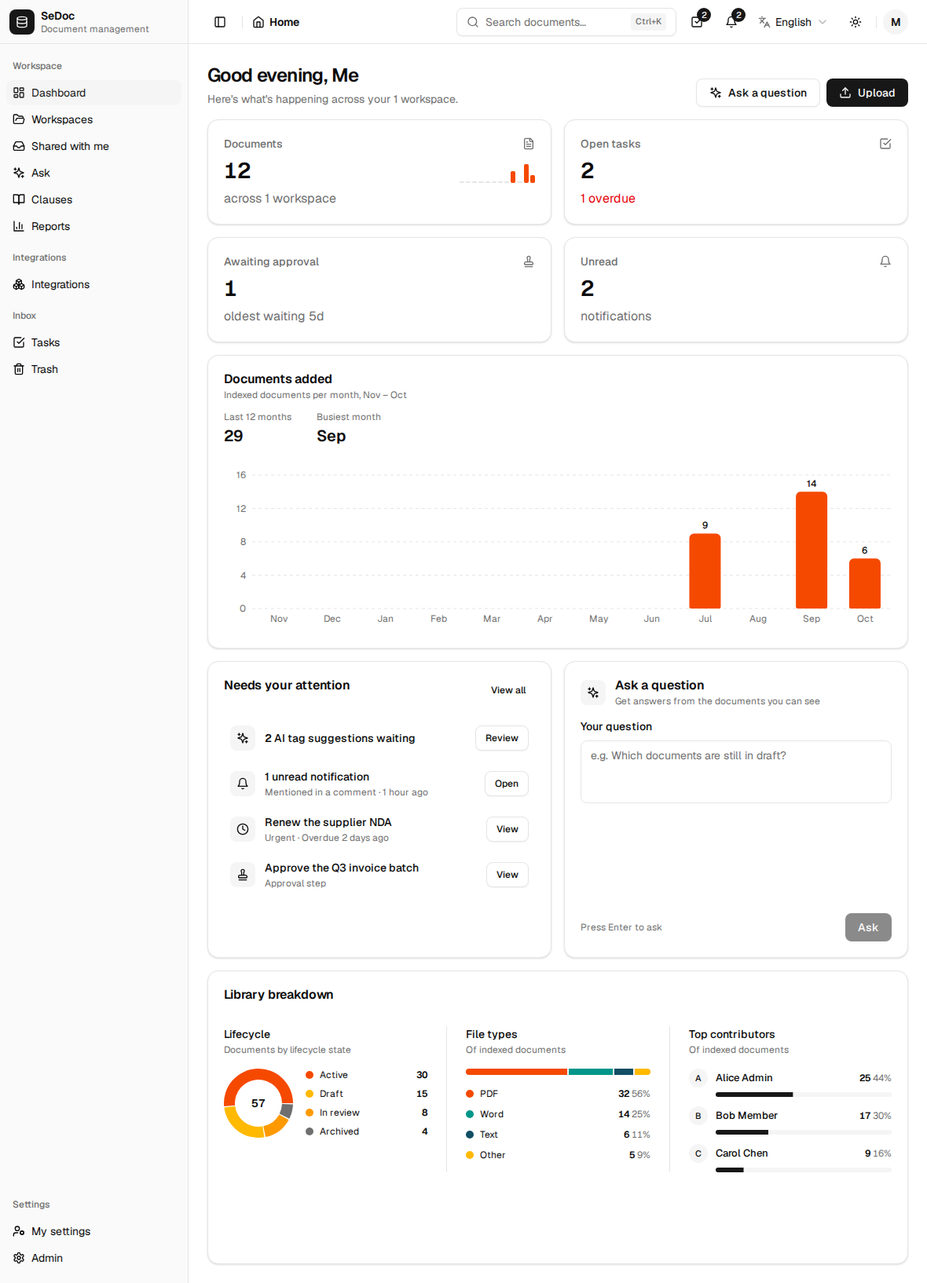
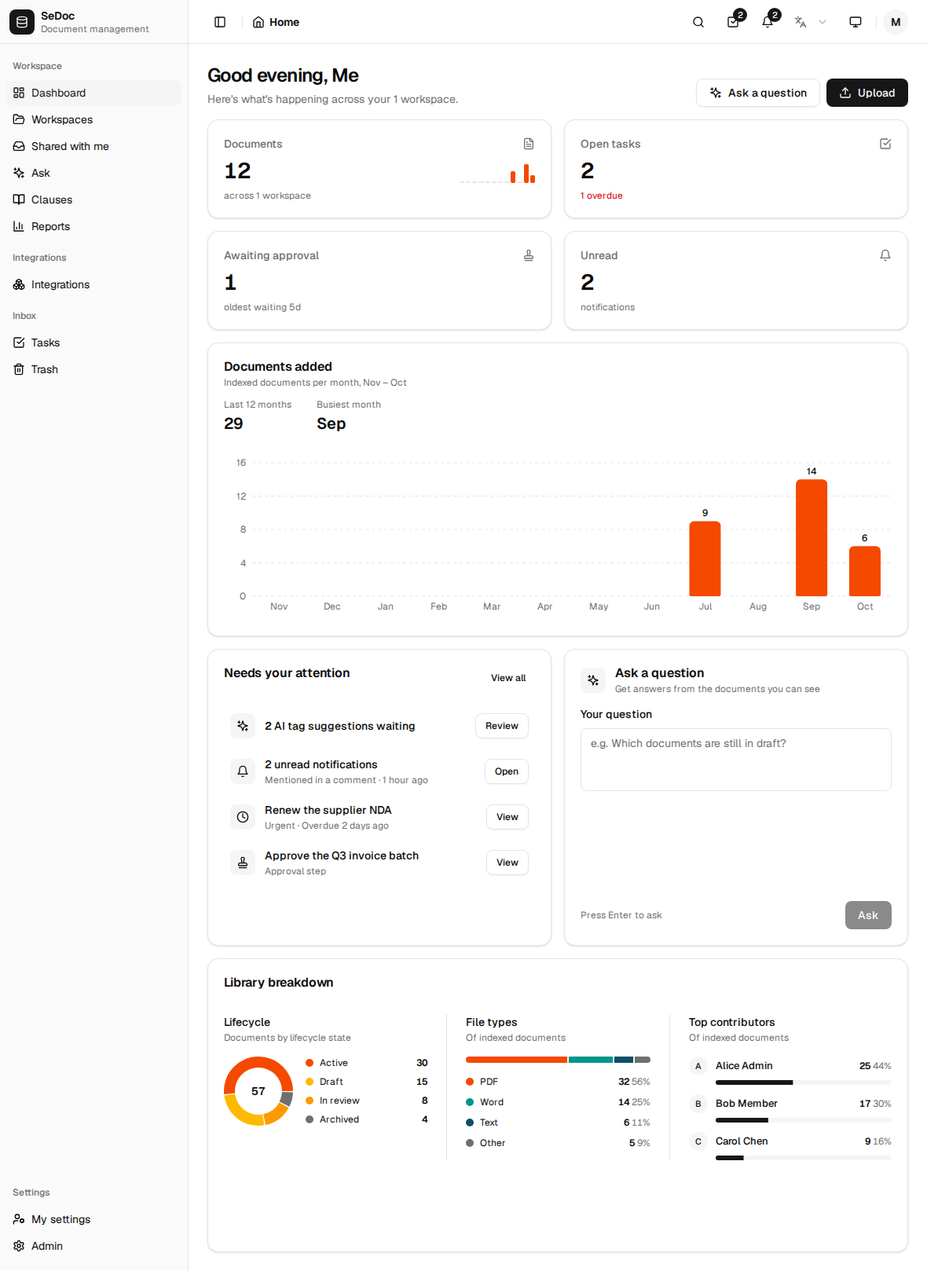
docs: hand-back and screenshots after the final fix wave
- M7: the hand-back states what the final fix wave did, item by item with
  commits (section 4), and the one open item (dark --destructive). It
  drops the hueSat() line, gives the .dark alias lines as 164-165, says
  the header overflowed (fixed by I1), corrects the Task 13 search
  premise (QuickActions had a Search card), marks the Task 11 ?q= ruling
  as superseded by C2, lists the six Final rulings, the deferred minors
  M1/M3/M4/M6 and the review's declined-to-judge list, and notes the
  browser floor and that the CSP still ships report-only.
- Screenshots re-captured at 1440, 1180 and 390 px (light, dark, RTL) on
  the fixed build, plus dashboard-820-light.png for the I1 band.

diff --git a/docs/superpowers/plans/2026-10-26-design-system-shell-dashboard-handback.md b/docs/superpowers/plans/2026-10-26-design-system-shell-dashboard-handback.md
@@ -2,7 +2,7 @@
 
 For the engineer doing redesign step 2 (the next screens). Spec: `docs/superpowers/specs/2026-10-25-design-system-shell-dashboard-design.md`. Plan: `docs/superpowers/plans/2026-10-26-design-system-shell-dashboard.md`. Branch `feat/ui-redesign-dashboard`, worktree `.worktrees/ui-redesign`. All paths below are under `web/` unless they start with `docs/`.
 
-**Not mergeable yet:** section 4 lists items that were decided in the final review wave but are not implemented at HEAD. Sections 1-3 describe only what is in the tree.
+**State:** the final whole-branch review (`.superpowers/sdd/2026-10-26-design-system-shell-dashboard/final-review.md`) found 2 Critical and 11 Important issues. The final fix wave implemented every ruling but one half of I3 (dark `--destructive`, which cannot meet the ruling and the existing AA pair at once). Section 4 lists each item with its commit and states that open item. Sections 1-3 describe what is in the tree.
 
 ## 1. What step 1 shipped, and where
 
@@ -17,7 +17,7 @@ For the engineer doing redesign step 2 (the next screens). Spec: `docs/superpowe
 
 **Sidebar and layout**: `src/components/layout/{app-layout,app-sidebar}.tsx` (rail at 801px and up, collapsible, Settings pinned at the bottom, smart folders inside the Workspace group), `src/store/uiStore.ts` (`notificationsOpen` / `openNotifications`, excluded from persistence).
 
-**Header**: `src/components/layout/{app-topbar,breadcrumbs,theme-toggle}.tsx`, `src/components/shared/LanguageSelector.tsx` (sidebar toggle button, 280x36 search trigger with `Kbd`, notifications bell, theme and language controls).
+**Header**: `src/components/layout/{app-topbar,breadcrumbs,theme-toggle}.tsx`, `src/components/shared/LanguageSelector.tsx` (sidebar toggle button, 280x36 search trigger with `Kbd` from 1181px and a search icon button below that, notifications bell, theme toggle showing the current mode, language control with its label from 1181px). The mobile navigation sheet carries the language control in a footer row.
 
 **Dashboard** (`src/routes/_authenticated/index.tsx` composes it): `src/components/dashboard/`
 - `DashboardHead.tsx`, `greet.ts`: greeting, workspace count, Upload button (also the drop target for files, opening `DashboardUploadDialog`).
@@ -25,9 +25,10 @@ For the engineer doing redesign step 2 (the next screens). Spec: `docs/superpowe
 - `DocumentsAddedChart.tsx`: 12-month bar chart.
 - `AttentionList.tsx`: "Needs your attention" (pending AI tag suggestions, unread notifications, top 3 open tasks; owns `taskRank`, `taskDetail`, `RANK_ICON`, `OPEN_STATUSES`).
 - `LibraryBreakdown.tsx`, `LifecycleDonut.tsx` (now only `LifecycleRing`), `BreakdownBars.tsx`, `chartTheme.ts`, `ChartDataTable.tsx`: lifecycle ring, file-type stacked bar, top contributors.
-- `AskCard.tsx`, `src/lib/askLimits.ts`: ask box that hands off to `/ask?q=`.
+- `AskCard.tsx`, `src/lib/askLimits.ts`: ask box that hands the question to `/ask` in router history state (`askQuestion`), never in the URL.
 - `WidgetCard.tsx` (the card frame all widgets share), `metrics.ts`, `useDashboardMetrics.ts`.
-- Related routes: `src/routes/_authenticated/ask.tsx` (reads `?q=`, submits once), `src/routes/_authenticated/tasks.tsx` (`validateSearch` for `?tab=my|created|approvals`).
+- Related routes: `src/routes/_authenticated/ask.tsx` (asks a history-state handoff once, then clears it; `?q=` only prefills the composer), `src/routes/_authenticated/tasks.tsx` (`validateSearch` for `?tab=my|created|approvals`).
+- `src/components/ai/AnswerMarkdown.tsx` (shared by Ask, doc Q&A and the chat panel) renders Markdown images as alt text plus a plain link, never an `<img>`.
 
 **Touched for the new tokens only**: `src/components/layout/{auth-shell,AuthHero,CursorGrid}.tsx`, `src/components/folders/BrowserTiles.tsx`, `src/routes/_authenticated/reports.tsx` (`hsl(var(--card))` became `var(--card)`).
 
@@ -47,18 +48,19 @@ For the engineer doing redesign step 2 (the next screens). Spec: `docs/superpowe
 |---|---|
 | `npx tsc --noEmit` | clean |
 | `npm run lint` (eslint plus the rtl, utf8, tenant scripts) | exit 0; the warnings that remain are on files this step did not touch |
-| `npx vitest run` | 133 files, 1146 tests, all pass. Before Task 14: 135 files, 1177 tests. The 31 tests removed belong to deleted components: PendingSuggestionsCard 4, `ui/crextio` 4, `widgets.test.tsx` 23. Coverage of surviving code in `widgets.test.tsx` (offline first mount, locale grouping, facets unavailable, reserved height) was retargeted to `LibraryBreakdown` and `AttentionList`, not dropped |
+| `npx vitest run` | After the final fix wave: 134 files, 1205 tests (1204 pass, 1 `it.fails` recording the open dark-destructive contrast gap). At Task 14: 133 files, 1146 tests. Before Task 14: 135 files, 1177 tests. The 31 tests removed in Task 14 belong to deleted components: PendingSuggestionsCard 4, `ui/crextio` 4, `widgets.test.tsx` 23. Coverage of surviving code in `widgets.test.tsx` (offline first mount, locale grouping, facets unavailable, reserved height) was retargeted to `LibraryBreakdown` and `AttentionList`, not dropped |
 | `npm run build` | passes |
-| Playwright on the built preview (run at Task 13) | 116 passed, 14 pre-existing skips, 0 failed. Not re-run after Task 14: no spec under `e2e/` imports or names any deleted component |
-| Dashboard axe (WCAG 2.1 AA) | 0 violations in light, dark and RTL at 1440, 1180 and 390 px |
+| Playwright on the built preview (re-run after the final fix wave) | 116 passed, 14 pre-existing skips, 0 failed |
+| Dashboard axe (WCAG 2.1 AA) | 0 violations in light, dark and RTL at 1440, 1180 and 390 px, and light at 820 px (final fix wave) |
 | `grep -rn "shadow-neu\|dash-rise\|nm-" src \| wc -l` | 207 lines. 204 are `shadow-neu*` aliases on other routes and components; 3 are negative assertions in tests (`not.toHaveClass('dash-rise')`, `not.toContain('--nm-dist')`, `not.toMatch(/--nm-/)`) |
 
-Screenshots, `docs/superpowers/plans/assets/2026-10-26-dashboard/`:
+Screenshots, `docs/superpowers/plans/assets/2026-10-26-dashboard/` (re-captured after the final fix wave):
 
 | | Light | Dark | RTL (Arabic) |
 |---|---|---|---|
 | 1440 px | [dashboard-1440-light.png](assets/2026-10-26-dashboard/dashboard-1440-light.png) | [dashboard-1440-dark.png](assets/2026-10-26-dashboard/dashboard-1440-dark.png) | [dashboard-1440-rtl.png](assets/2026-10-26-dashboard/dashboard-1440-rtl.png) |
 | 1180 px | [dashboard-1180-light.png](assets/2026-10-26-dashboard/dashboard-1180-light.png) | [dashboard-1180-dark.png](assets/2026-10-26-dashboard/dashboard-1180-dark.png) | [dashboard-1180-rtl.png](assets/2026-10-26-dashboard/dashboard-1180-rtl.png) |
+| 820 px (rail expanded; the I1 band) | [dashboard-820-light.png](assets/2026-10-26-dashboard/dashboard-820-light.png) | | |
 | 390 px | [dashboard-390-light.png](assets/2026-10-26-dashboard/dashboard-390-light.png) | [dashboard-390-dark.png](assets/2026-10-26-dashboard/dashboard-390-dark.png) | [dashboard-390-rtl.png](assets/2026-10-26-dashboard/dashboard-390-rtl.png) |
 
 **Running Playwright locally** (Linux, no root, no passwordless sudo):
@@ -69,7 +71,7 @@ Screenshots, `docs/superpowers/plans/assets/2026-10-26-dashboard/`:
 
 ## 3. Decisions that deviate from the spec or plan
 
-From the ledger (`.superpowers/sdd/2026-10-26-design-system-shell-dashboard/progress.md`), every `Ruling:` line. The pre-flight scan found no contradictions between tasks (its `Ruling:` line says "none needed"). The ledger has 52 lines containing `Ruling`: that pre-flight line plus 51 decisions. The 51 appear below as 48 bullets; three bullets merge two ledger lines each (Task 1 muted-foreground, Task 3 focus halo, Task 11 Enter rule). Task 13's two rulings are decided but not implemented; they are listed here for completeness and detailed in section 4.
+From the ledger (`.superpowers/sdd/2026-10-26-design-system-shell-dashboard/progress.md`), every `Ruling:` line. The pre-flight scan found no contradictions between tasks (its `Ruling:` line says "none needed"). The ledger has 52 lines containing `Ruling`: that pre-flight line plus 51 decisions. The 51 appear below as 48 bullets; three bullets merge two ledger lines each (Task 1 muted-foreground, Task 3 focus halo, Task 11 Enter rule). The final review added six `Final: Ruling` lines (58 in all), listed at the end of this section. Task 13's two rulings were implemented in the final fix wave (section 4).
 
 **Tokens (Task 1)**
 - Colour utilities use the `color-mix(... <alpha-value> ...)` wrapper instead of a bare `var(--x)`. A bare `var()` drops every `/NN` opacity modifier (about 600 uses in 159 files). Same colour at full opacity; one line in `token()` to change.
@@ -127,7 +129,7 @@ From the ledger (`.superpowers/sdd/2026-10-26-design-system-shell-dashboard/prog
 - Arabic count nouns use pluralised keys, and the Arabic comma comes from the catalogue, in both the stacked list and the contributors rows.
 
 **Ask card (Task 11)**
-- `/ask` auto-submits once per mount (a `useRef` guard) and then clears `?q=` with a replace navigation, so reload and Back never re-ask.
+- `/ask` auto-submits once per mount (a `useRef` guard) and then clears `?q=` with a replace navigation, so reload and Back never re-ask. **Superseded** by the final review's C2 ruling (below): a URL never asks anything.
 - Enter submits only when `!shiftKey && !isComposing && keyCode !== 229` (Arabic and CJK IMEs commit with Enter; the `keyCode` clause amends the first version of the rule).
 - `WidgetCard` gains an optional `icon` start slot in the header, rendered only when supplied.
 - A visible label `dashboard.ask.label` ("Your question") sits above the textarea; spec section 5 lists a label and the plan supplied no copy.
@@ -138,12 +140,21 @@ From the ledger (`.superpowers/sdd/2026-10-26-design-system-shell-dashboard/prog
 - `grid-flow-dense` is kept: at 801-1180px the spec pairs attention and ask in one row with the library full width. Cost: at mid widths the Ask card is visually before the Library card but after it in tab order.
 - Drop-to-upload regressed when the QuickActions Upload card was removed (it was the only `onDrop` target). The head's Upload button is now the drop target (dragover highlight; drop opens `DashboardUploadDialog` with `initialFiles`).
 
-**Verification task (Task 13): decided, NOT implemented at HEAD (details in section 4)**
-- `LanguageSelector` is to appear inside the mobile sidebar sheet (800px and below) because the spec hides it in the header at that width and the sheet would otherwise leave phones with no language switch.
-- Attention row titles are to wrap (`line-clamp-2`) instead of truncating on one line.
+**Verification task (Task 13): implemented in the final fix wave (section 4)**
+- `LanguageSelector` appears inside the mobile sidebar sheet (800px and below) because the spec hides it in the header at that width and the sheet would otherwise leave phones with no language switch.
+- Attention row titles wrap (`line-clamp-2`) instead of truncating on one line.
+- The same ruling said "Search on phones is not a regression (header search was already hidden under 640px on main)". That premise was wrong: below 640px the dashboard's QuickActions had a **Search** card (`dashboard.qa.search_label`), and 641-800px had the header search. The final review's C1 ruling corrects it.
 
 **Task 14**
 - The commit trailer stays "Claude Opus 5.5" on all subagent commits (the session's standing instruction); earlier commits are not amended.
+
+**Final review (fix wave)**
+- C1: a header search icon button opens `/search` wherever the search input is hidden (QuickActions had the only phone Search entry).
+- C2: questions auto-submit only from in-app navigation state, never from the URL; `?q=` only prefills; `AnswerMarkdown` renders model-output images as non-fetching links. This deviates from spec section 5 item 6 ("submits it on mount" from `?q=`): security outranks it.
+- I1: the search input and the language label show only from 1181px (an icon button below). Cost: a smaller search affordance at 801-1180px.
+- I3: light `--ring` #737373 and `--destructive` adjusted for AA; spec section 3 amended. The dark half is open (section 4).
+- I4: the theme toggle shows Monitor in system mode and states the mode in its name.
+- I2, I5-I11 and the minors M2, M7, M8, M9 as listed in `final-fix-brief.md`; M1, M3, M4, M6 stay deferred to step 2 (section 5.8); the review's declined-to-judge items stay out of scope (section 5.9).
 
 Choices made by the Task 14 implementer (not ledger rulings):
 - The `shadow-neu*` / `shadow-float*` aliases stay in `tailwind.config.js`: 211 uses in 82 non-test files remain (section 5.1).
@@ -152,22 +163,34 @@ Choices made by the Task 14 implementer (not ledger rulings):
 - `LifecycleDonut.tsx` keeps its file name though it now exports only `LifecycleRing`, to avoid churn in `LibraryBreakdown` and its tests.
 - `trendSummary` in `metrics.ts` has no production caller any more; it is left in place with its tests.
 
-## 4. Pending before merge (final fix wave)
+## 4. Done in the final fix wave
 
-Decided in review, not implemented at HEAD. Each line says what the tree does now.
+Every item the final review raised, with the commit that closed it. Base `bd19f2b4`.
 
-**Decided in the ledger (Task 13 rulings and must-fix)**
-- Phones have no language switch: `LanguageSelector` is hidden below 801px by `hidden shell:block` (`src/components/layout/app-topbar.tsx:86-88`) and is not in `MobileSidebar` (`src/components/layout/app-sidebar.tsx:317-331`). Decision: render it in the mobile sheet (a footer row). Header search is not affected (already hidden under 640px on main).
-- Attention row titles are cut off: the title span is `block truncate` (`src/components/dashboard/AttentionList.tsx:77`), so "2 AI tag suggestions waiting" shows as "2 AI tag suggestions waiti..." at 1440px. Decision: `line-clamp-2`.
-- The file-type "Other" row takes a palette colour when the facet has fewer than five types: `colorAt` in `src/components/dashboard/BreakdownBars.tsx:76` colours any index below `series.length` from the palette, and the "Other" row can sit at such an index. Decision: it always gets `OTHER_SEGMENT_COLOR`.
+**Critical**
+- C1, phones had no route to document search: a 36px ghost search icon button (`wide:hidden`, named "Search documents…") opens `/search`. `fb7627e0`.
+- C2, `/ask?q=` asked a crafted link's question with one click, and an answer could leak through a Markdown image: the Ask card hands over in router history state (`askQuestion`, typed by augmenting `@tanstack/history`'s `HistoryState`); `/ask` asks it once per handoff (keyed on the history entry, so a second in-app ask while mounted is honoured, and one arriving mid-stream waits) and replaces the entry with the state cleared; `?q=` only prefills the composer and is dropped from the URL; `AnswerMarkdown` renders images as alt text plus a nofollow link, never an `<img>`. `fbdb3e16`.
 
-**Found in review**
-- The suggestions row's Review link lands on the Catalog tab: `<Link to="/admin/tagging">` at `src/components/dashboard/AttentionList.tsx:214` carries no search; the page defaults to `catalog` (`src/routes/_authenticated/admin/tagging.tsx:17`) and accepts `tab: 'review'` (`:41-42`). Needs `search={{ tab: 'review' }}`.
-- The unread row can disagree with the bell badge: the row counts `unread = notes.filter(n => !n.read)` (`AttentionList.tsx:131`) over the first page of `getNotifications()` with no params (`:105`), while the bell badge and the Unread KPI card use `getUnreadCount()` (`src/components/layout/app-topbar.tsx:334-336`, `src/components/dashboard/KpiStrip.tsx:29`). The two disagree whenever unread notifications fall outside that first page.
-- `activity_aria` has one form per language (`public/locales/en/common.json:151`, `public/locales/ar/common.json:159`): English reads "1 documents added" for a total of 1, and the Arabic `مستندًا` after the number is grammatical only for 11-99. It needs plural forms (six in `ar`, per the Task 7 ruling).
-- `FACETS_UNAVAILABLE_LABEL` is an English literal, `'Too many documents to chart'` (`src/components/dashboard/metrics.ts:64`), shown under Arabic. It needs a catalogue key in both languages.
+**Important**
+- I1, the header overflowed at 801-930px: the 280px search box is `hidden wide:flex` and the language label `hidden wide:inline`. At 820px the right cluster is 285px wide and the header no longer overflows. `fb7627e0`.
+- I2, `cn()` dropped `text-caption`: `lib/cn.ts` registers `text-caption`/`text-metric` (font size) and `shadow-focus-halo*` (shadow) with `extendTailwindMerge`. KPI hints render at 12/16. `8d8803a0`.
+- I3, contrast: light `--ring` #737373 (4.7:1 on white); light `--destructive` #d6000a (4.5:1 on its own 10% tint, 5.4:1 on white). New pairs in `theme-contrast.test.ts`; spec section 3 amended. `e4db35d0`. **Open:** dark `--destructive` is unchanged (#e7000b, 3.8:1 on the dark card). No value can give error text 4.5:1 on the dark card while white `--destructive-foreground` keeps 4.5:1 on it, so the ruling's dark half needs a decision: a dark `--destructive-foreground`, or a separate text token. The gap is recorded as an `it.fails` test. `KpiCard`'s `dark:text-foreground` workaround stays until then.
+- I4, the theme toggle: Sun, Moon, and Monitor for system; name and tooltip "Theme: {mode}" from one key (`theme.toggle_with_mode`). `cf7d9849`.
+- I5, phones had no language switch: `LanguageSelector` in a footer row of the mobile sheet. `fb7627e0`.
+- I6, attention titles truncated: `line-clamp-2`. `155c8451`.
+- I7, the Review link landed on the Catalog tab: `search={{ tab: 'review' }}`. `155c8451`.
+- I8, the unread row counted the first inbox page: the number comes from `['notifications','unread-count']`. `155c8451`.
+- I9, "Other" took a palette colour: it is coloured by its key (`OTHER_KEY`). `155c8451`.
+- I10, `activity_aria` had one form: pluralised on `count`, with the figure in `total` (en two forms, ar six). `82b1f2e1`.
+- I11, English literals in failure and loading states: `FACETS_UNAVAILABLE_KEY`, WidgetCard's error, loading and empty copy, KpiCard's "unavailable" name, all in en and ar. `82b1f2e1`.
 
-Checked and not pending: the Task 12 `act()` wrap around the header Upload clicks is already in `src/routes/__tests__/-dashboard-page.test.tsx` (lines 218, 222, 268).
+**Minor**
+- M2, stale `theme-color` meta: #ffffff for light and #0a0a0a for dark, per scheme. `e4db35d0`.
+- M7, this hand-back corrected (this commit).
+- M8, catalogue parity: `src/i18n/__tests__/catalogue-parity.test.ts`. `82b1f2e1`.
+- M9, dropped `AttentionList` assertions restored (no raw type code, no `markAsRead`, the notifications-half Retry). `155c8451`.
+
+Checked and not pending: the Task 12 `act()` wrap around the header Upload clicks is already in `src/routes/__tests__/-dashboard-page.test.tsx`.
 
 ## 5. Leftovers for step 2
 
@@ -290,14 +313,15 @@ Also: `BrowserTiles.tsx` sets `fontFamily="'Plus Jakarta Sans', system-ui, sans-
 
 - `font-serif` has no users left: the Crextio kit was the only one, and `tailwind.config.js` defines no `serif` family (`src/styles/__tests__/fonts.test.ts` asserts it).
 
-### 5.4 Browser floor
+### 5.4 Browser floor and CSP
 
-The `color-mix()` colour wrapper in `tailwind.config.js` (and the `focus-halo` shadows) require Chrome and Edge 111, Safari 16.2, Firefox 113. Older browsers cannot parse the declaration, so those colour utilities are lost. No ADR in `docs/adr` records this floor; add one, or revisit the wrapper, if it is not acceptable.
+- The `color-mix()` colour wrapper in `tailwind.config.js` (and the `focus-halo` shadows) require Chrome and Edge 111, Safari 16.2, Firefox 113. Older browsers cannot parse the declaration, so every colour utility is lost there. No ADR in `docs/adr` records this floor; add one before release, or revisit the wrapper, if it is not acceptable.
+- The CSP still ships report-only (`pkg/middleware/secheaders.go`, `SEDOC_CSP_ENFORCE=false` by default), so its `img-src 'self'` is not enforced. The C2 fix does not depend on it; enforcing it is a deployment decision.
 
 ### 5.5 Known gaps and pre-existing issues
 
 - **Stale RTL screenshot baseline.** `e2e/i18n-rtl-shell.spec.ts-snapshots/rtl-dashboard-chromium-win32.png` is the pre-redesign dashboard and exists for win32 only. On Linux the spec records a `skipped-assertion` annotation and does not compare. Regenerate it on Windows or add a Linux baseline.
-- **`npm run i18n:check` does not work.** `package.json` points at `scripts/check-i18n-keys.mjs`, which does not exist. Add the script or remove the entry.
+- **`npm run i18n:check` does not work.** `package.json` points at `scripts/check-i18n-keys.mjs`, which does not exist. Add the script or remove the entry. Key parity between en and ar is now covered by `src/i18n/__tests__/catalogue-parity.test.ts` (M8).
 - **Month names follow the browser locale, not the app language.** `MONTH_LABEL` in `src/components/dashboard/metrics.ts` is `new Intl.DateTimeFormat(undefined, ...)`, so the documents-added chart shows English month names under Arabic when the browser is English (pre-existing).
 - **Arabic "5 يوم".** `dashboard.kpi.oldest_waiting` in `public/locales/ar/common.json` is a single string ("أقدم انتظار {{count}} يوم") with no plural forms, so 5 reads "5 يوم" where Arabic needs "5 أيام". Give it the six CLDR forms like the other counts (pre-existing on main).
 - **Empty band** at the bottom of the Library and attention cards at some widths.
@@ -315,9 +339,8 @@ The `color-mix()` colour wrapper in `tailwind.config.js` (and the `focus-halo` s
 Items the ledger tagged for Task 14 are done (orphaned keys, `ActivityChart`, test renames, `KpiCard` `delayIndex`, stale `NeedsAttention` comment, `search_placeholder`) and are not repeated; `segment.home` was kept (section 3).
 
 **Tokens, CSS, fonts (Tasks 1-2)**
-- `hueSat()` (hex to HSL parser in `chartTheme.ts`) is untested.
 - The `hsl(var(` guard test covers `globals.css` only (a grep of `src` finds none today).
-- Redundant `.dark` alias redefinitions in `globals.css` (around lines 141-142); a `globals.css` parser duplicated in two test files.
+- Redundant `.dark` alias redefinitions in `globals.css` (lines 164-165 after the final fix wave; 160-161 at `bd19f2b4`); a `globals.css` parser duplicated in two test files.
 - `shadow-neu-inset` / `shadow-neu-pressed` to none changed about 96 call sites at the time (plan-mandated); check them on screenshots when restyling each route.
 - The auth shell (`AuthHero`, `auth-shell`) gradients are now flat or inverted; the auth shell was out of scope for step 1.
 - 12 pre-existing jsdom canvas warnings in the vitest output.
@@ -336,8 +359,8 @@ Items the ledger tagged for Task 14 are done (orphaned keys, `ActivityChart`, te
 **Sidebar and header (Tasks 4-5)**
 - The "hides smart folders when collapsed" test may pass vacuously (asserts before the query resolves).
 - Collapsed groups gained a `border-t` hairline (unrequested); `bg-sidebar` is applied twice (pre-existing); collapsed tooltips are native `title` (not shown on keyboard focus).
-- The theme tooltip joins two translations with ": " (should be one interpolated key); the search form re-spells the outline surface without `hover:bg-accent`; the avatar relies on `--secondary` equalling `--muted`; no test for the system-to-dark icon; the search accessible name contains "..." (spec copy); the `getClientRects` test stub is coarse.
-- Header is tight between 801 and about 935px with the rail expanded.
+- The search form re-spells the outline surface without `hover:bg-accent`; the avatar relies on `--secondary` equalling `--muted`; the search accessible name contains "..." (spec copy); the `getClientRects` test stub is coarse. (The theme tooltip's ": " join and the missing system-icon test were fixed with I4.)
+- The header **overflowed** (not "was tight") between 801 and about 930px with the rail expanded; fixed by I1 (section 4).
 
 **Dashboard (Tasks 6-12)**
 - Task 6: header spacing `mb-4` to `pb-3` shifts content up about 4px.
@@ -348,10 +371,38 @@ Items the ledger tagged for Task 14 are done (orphaned keys, `ActivityChart`, te
 - Task 11: a numeric `?q=` is dropped by the string-only `validateSearch` (not reachable from the UI); tests must use role queries ("Ask a question" appears 4 times).
 - Task 12: the "logical utilities" test name oversells; the chart plot is a fixed 220px inside a stretched card; dropping a file elsewhere on the page still triggers the browser default (unchanged from before); the drop target is one button instead of a card.
 
-**Task 14 (dropped with `NeedsAttention`, still valid for `AttentionList`)**
-- No test that a raw notification type code is never rendered, that the card never calls `markAsRead`, or that the notifications-half Retry refetches only that query.
+**Task 14 (dropped with `NeedsAttention`)**
+- The `AttentionList` assertions (no raw type code, no `markAsRead`, notifications-half Retry) were restored in the final fix wave (M9).
 - `KpiCard`'s flat-series and zero-series guards are untested.
 
 **E2E and axe (Task 13)**
 - The RTL axe case does not wait for KPI cards or file-type rows (a late skeleton could be scanned); the img check is loose; the cookie URL is hard-coded (same as the existing spec).
 - At 390px the chart label thinning skips some month ticks.
+
+### 5.8 Minors the final review kept deferred
+
+- **M1.** `index.tsx` `grid-flow-dense`: at 801-1180px the Ask card is visually before the Library card but after it in tab order. Putting Ask before Library in the DOM and restoring the 1181px+ placement with `wide:order-*` would remove the mismatch.
+- **M3.** Links styled only `text-primary hover:underline` (12 sites, e.g. `search.tsx`, `NotificationsPanel.tsx`, the header's "See all") are now about 1.1:1 against body text. Restyle in step 2 (WCAG 1.4.1 where inline).
+- **M4.** The `shadow-neu-inset` to none sweep removed no control's only affordance, but `admin/metadata-schema.tsx` (`border-0 bg-muted`, a 1.09:1 fill against white) is the weakest; check it in step 2.
+- **M6.** Light lifecycle draft (`chart-4`) and in_review (`chart-5`) are about 1.24:1 apart and hard to tell apart in the ring; remapping one state to `chart-2` or `chart-3` in `chartTheme.ts` is a one-line change.
+
+### 5.9 Declined to judge in the final review (out of scope)
+
+- The mobile drawer stays open after tapping a nav link (pre-existing; no close-on-navigate on main).
+- `LanguageSelector` hides Arabic unless `VITE_INCOMPLETE_LOCALES=true` (a pre-existing product decision).
+- Hard-coded colours (section 5.2) and the 211 `shadow-neu*` alias uses on other routes (spec section 10 tolerates them this step).
+- `--border`/`--input` #e5e5e5 on white (1.26:1 input boundary): the spec's mock token and the shadcn convention; a spec-owner call.
+- Browser-locale number and month formatting (`Intl.*(undefined)`): pre-existing and project-wide.
+- Auth shell visuals (spec section 2).
+- `select.tsx` 40px with `bg-muted` against Input 36px, and the global Textarea min-height change from 60 to 80px: primitive restyle per spec; call sites not audited (step 2).
+- Enforcing the CSP (`SEDOC_CSP_ENFORCE`): deployment configuration (section 5.4).
+- Dropping a file outside the Upload button navigates the tab to the file (pre-existing).
+- Physical `rounded-tl-sm` on the Ask chat bubbles (pre-existing).
+- Arabic grammar of individual strings beyond plural mechanics (needs a native reviewer).
+- The intelligence service's general prompt-injection resistance (backend; only the client-side one-click trigger was judged, as C2).
+
+### 5.10 Observations from the final screenshots
+
+- At 801-1180px the attention and Ask cards share a row, so each is about 260px wide at 820px: attention titles clamp at two lines ("2 AI tag suggesti…") and the card title truncates ("Needs your atte…"). Not a regression (they were cut to one line before); a layout question for step 2.
+- In dark, the "1 overdue" KPI hint is foreground, not red (the dark-destructive gap in section 4).
+
